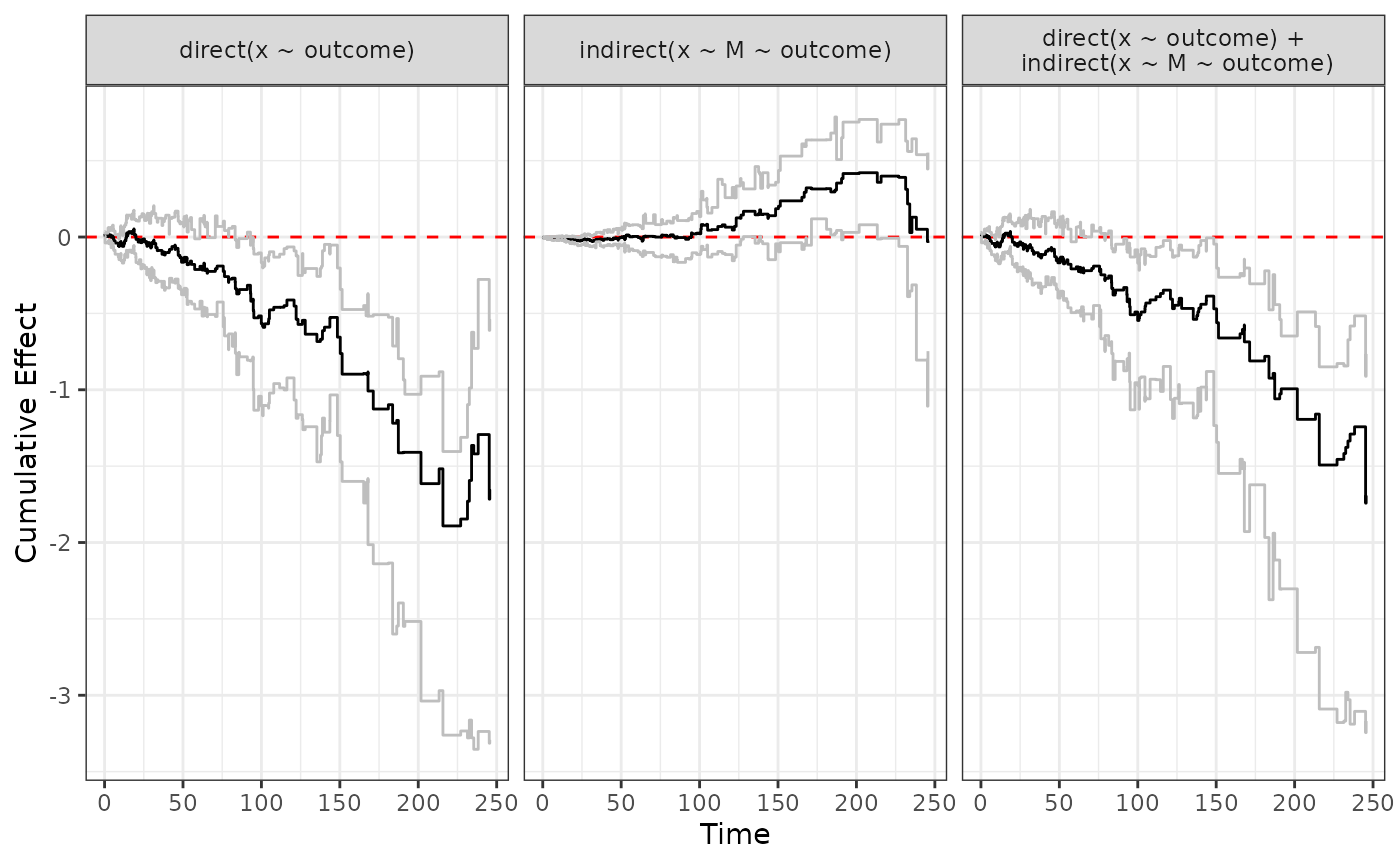
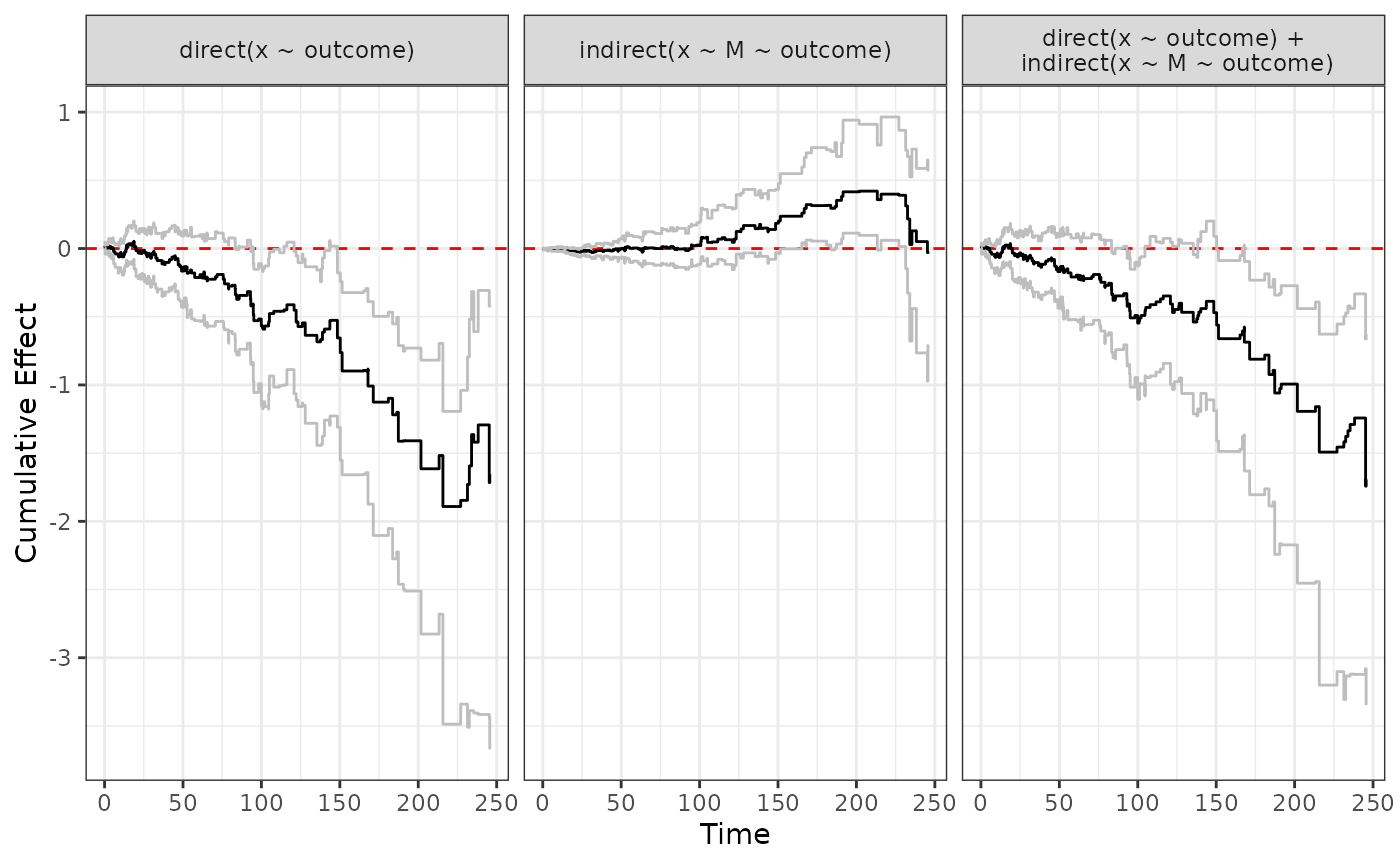
Deploying to gh-pages from @ Novartis/dpasurv@4db3bdb07418c030b93ce86895728c1487d0a177 🚀

diff --git a/articles/ggplot_demo.html b/articles/ggplot_demo.html
@@ -72,28 +72,27 @@ Lange</h4>
 }
 </style>
 <div class="sourceCode" id="cb1"><pre class="downlit sourceCode r">
-<code class="sourceCode R"><span><span class="kw"><a href="https://rdrr.io/r/base/library.html" class="external-link">library</a></span><span class="op">(</span><span class="va"><a href="http://opensource.nibr.com/dpasurv/">dpasurv</a></span><span class="op">)</span></span>
-<span><span class="kw"><a href="https://rdrr.io/r/base/library.html" class="external-link">library</a></span><span class="op">(</span><span class="va"><a href="https://github.com/therneau/survival" class="external-link">survival</a></span><span class="op">)</span></span>
-<span><span class="co">#&gt; </span></span>
-<span><span class="co">#&gt; Attaching package: 'survival'</span></span>
-<span><span class="co">#&gt; The following object is masked from 'package:dpasurv':</span></span>
-<span><span class="co">#&gt; </span></span>
-<span><span class="co">#&gt;     Surv</span></span></code></pre></div>
+<code class="sourceCode R"><span><span class="kw"><a href="https://rdrr.io/r/base/library.html" class="external-link">library</a></span><span class="op">(</span><span class="va"><a href="http://opensource.nibr.com/dpasurv/">dpasurv</a></span><span class="op">)</span></span></code></pre></div>
 <div class="section level2">
 <h2 id="load-data-and-run-analysis">Load data and run analysis<a class="anchor" aria-label="anchor" href="#load-data-and-run-analysis"></a>
 </h2>
 <div class="sourceCode" id="cb2"><pre class="downlit sourceCode r">
 <code class="sourceCode R"><span><span class="fu"><a href="https://rdrr.io/r/utils/data.html" class="external-link">data</a></span><span class="op">(</span><span class="va">simdata</span><span class="op">)</span></span>
 <span></span>
-<span><span class="va">s</span> <span class="op">&lt;-</span> <span class="fu"><a href="../reference/dpa.html">dpa</a></span><span class="op">(</span><span class="fu"><a href="../reference/Surv.html">Surv</a></span><span class="op">(</span><span class="va">start</span>,<span class="va">stop</span>,<span class="va">event</span><span class="op">)</span><span class="op">~</span><span class="va">M</span><span class="op">+</span><span class="va">x</span>, <span class="fu"><a href="https://rdrr.io/r/base/list.html" class="external-link">list</a></span><span class="op">(</span><span class="va">M</span><span class="op">~</span><span class="va">x</span><span class="op">)</span>, id<span class="op">=</span><span class="st">"subject"</span>, data<span class="op">=</span><span class="va">simdata</span>, boot.n<span class="op">=</span><span class="fl">100</span><span class="op">)</span></span>
+<span><span class="fu"><a href="https://rdrr.io/r/base/Random.html" class="external-link">set.seed</a></span><span class="op">(</span><span class="fl">1</span><span class="op">)</span></span>
 <span></span>
+<span><span class="co"># Perform dynamic path analysis</span></span>
+<span><span class="va">s</span> <span class="op">&lt;-</span> <span class="fu"><a href="../reference/dpa.html">dpa</a></span><span class="op">(</span><span class="fu"><a href="../reference/Surv.html">Surv</a></span><span class="op">(</span><span class="va">start</span>,<span class="va">stop</span>,<span class="va">event</span><span class="op">)</span><span class="op">~</span><span class="va">M</span><span class="op">+</span><span class="va">x</span>, <span class="fu"><a href="https://rdrr.io/r/base/list.html" class="external-link">list</a></span><span class="op">(</span><span class="va">M</span><span class="op">~</span><span class="va">x</span><span class="op">)</span>, id<span class="op">=</span><span class="st">"subject"</span>, data<span class="op">=</span><span class="va">simdata</span>, boot.n<span class="op">=</span><span class="fl">500</span><span class="op">)</span></span>
+<span></span>
+<span><span class="co"># Calculate direct, indirect and total effects</span></span>
 <span><span class="va">direct</span> <span class="op">&lt;-</span> <span class="fu"><a href="../reference/effect.html">effect</a></span><span class="op">(</span><span class="va">x</span> <span class="op">~</span> <span class="va">outcome</span>, <span class="va">s</span><span class="op">)</span></span>
 <span><span class="va">indirect</span> <span class="op">&lt;-</span> <span class="fu"><a href="../reference/effect.html">effect</a></span><span class="op">(</span><span class="va">x</span> <span class="op">~</span> <span class="va">M</span> <span class="op">~</span> <span class="va">outcome</span>, <span class="va">s</span><span class="op">)</span></span>
 <span><span class="va">total</span> <span class="op">&lt;-</span> <span class="fu"><a href="https://rdrr.io/r/base/sum.html" class="external-link">sum</a></span><span class="op">(</span><span class="va">direct</span>, <span class="va">indirect</span><span class="op">)</span></span>
 <span></span>
-<span><span class="co"># Multiple treatment arms:</span></span>
-<span><span class="va">s2</span> <span class="op">&lt;-</span> <span class="fu"><a href="../reference/dpa.html">dpa</a></span><span class="op">(</span><span class="fu"><a href="../reference/Surv.html">Surv</a></span><span class="op">(</span><span class="va">start</span>,<span class="va">stop</span>,<span class="va">event</span><span class="op">)</span><span class="op">~</span><span class="va">M</span><span class="op">+</span><span class="va">dose</span>, <span class="fu"><a href="https://rdrr.io/r/base/list.html" class="external-link">list</a></span><span class="op">(</span><span class="va">M</span><span class="op">~</span><span class="va">dose</span><span class="op">)</span>, id<span class="op">=</span><span class="st">"subject"</span>, data<span class="op">=</span><span class="va">simdata</span>, boot.n<span class="op">=</span><span class="fl">100</span><span class="op">)</span></span>
+<span><span class="co"># Perform dynamic path analysis under multiple treatment arms:</span></span>
+<span><span class="va">s2</span> <span class="op">&lt;-</span> <span class="fu"><a href="../reference/dpa.html">dpa</a></span><span class="op">(</span><span class="fu"><a href="../reference/Surv.html">Surv</a></span><span class="op">(</span><span class="va">start</span>,<span class="va">stop</span>,<span class="va">event</span><span class="op">)</span><span class="op">~</span><span class="va">M</span><span class="op">+</span><span class="va">dose</span>, <span class="fu"><a href="https://rdrr.io/r/base/list.html" class="external-link">list</a></span><span class="op">(</span><span class="va">M</span><span class="op">~</span><span class="va">dose</span><span class="op">)</span>, id<span class="op">=</span><span class="st">"subject"</span>, data<span class="op">=</span><span class="va">simdata</span>, boot.n<span class="op">=</span><span class="fl">500</span><span class="op">)</span></span>
 <span></span>
+<span><span class="co"># Calculate corresponding direct, indirect and total effects</span></span>
 <span><span class="va">direct2</span> <span class="op">&lt;-</span> <span class="fu"><a href="../reference/effect.html">effect</a></span><span class="op">(</span><span class="va">dose</span> <span class="op">~</span> <span class="va">outcome</span>, <span class="va">s2</span><span class="op">)</span></span>
 <span><span class="va">indirect2</span> <span class="op">&lt;-</span> <span class="fu"><a href="../reference/effect.html">effect</a></span><span class="op">(</span><span class="va">dose</span> <span class="op">~</span> <span class="va">M</span> <span class="op">~</span> <span class="va">outcome</span>, <span class="va">s2</span><span class="op">)</span></span>
 <span><span class="va">total2</span> <span class="op">&lt;-</span> <span class="fu"><a href="https://rdrr.io/r/base/sum.html" class="external-link">sum</a></span><span class="op">(</span><span class="va">direct2</span>, <span class="va">indirect2</span><span class="op">)</span></span></code></pre></div>
@@ -128,16 +127,16 @@ Lange</h4>
 <div class="sourceCode" id="cb5"><pre class="downlit sourceCode r">
 <code class="sourceCode R"><span><span class="fu"><a href="../reference/ggplot.effect.html">ggplot.effect</a></span><span class="op">(</span><span class="va">indirect</span><span class="op">)</span></span></code></pre></div>
 <p><img src="ggplot_demo_files/figure-html/unnamed-chunk-5-1.png" width="700"></p>
-<p>Alternatively, we can provide a list of “effect”-object, for
+<p>Alternatively, we can provide a list of “effect” objects, for
 example</p>
 <div class="sourceCode" id="cb6"><pre class="downlit sourceCode r">
 <code class="sourceCode R"><span><span class="fu"><a href="../reference/ggplot.effect.html">ggplot.effect</a></span><span class="op">(</span><span class="fu"><a href="https://rdrr.io/r/base/list.html" class="external-link">list</a></span><span class="op">(</span><span class="va">direct</span>, <span class="va">indirect</span>, <span class="va">total</span><span class="op">)</span><span class="op">)</span></span></code></pre></div>
 <p><img src="ggplot_demo_files/figure-html/unnamed-chunk-6-1.png" width="700"></p>
-<p>Different dose level will be plotted on top of each other</p>
+<p>Different dose levels will be plotted on top of each other</p>
 <div class="sourceCode" id="cb7"><pre class="downlit sourceCode r">
 <code class="sourceCode R"><span><span class="fu"><a href="../reference/ggplot.effect.html">ggplot.effect</a></span><span class="op">(</span><span class="va">direct2</span><span class="op">)</span></span></code></pre></div>
 <p><img src="ggplot_demo_files/figure-html/unnamed-chunk-7-1.png" width="700"></p>
-<p>Also works when we have multiple treatment arms</p>
+<p>Also works when we plot a list of “effect” objects</p>
 <div class="sourceCode" id="cb8"><pre class="downlit sourceCode r">
 <code class="sourceCode R"><span><span class="fu"><a href="../reference/ggplot.effect.html">ggplot.effect</a></span><span class="op">(</span><span class="fu"><a href="https://rdrr.io/r/base/list.html" class="external-link">list</a></span><span class="op">(</span><span class="va">direct2</span>, <span class="va">indirect2</span>, <span class="va">total2</span><span class="op">)</span><span class="op">)</span></span></code></pre></div>
 <p><img src="ggplot_demo_files/figure-html/unnamed-chunk-8-1.png" width="700"></p>
